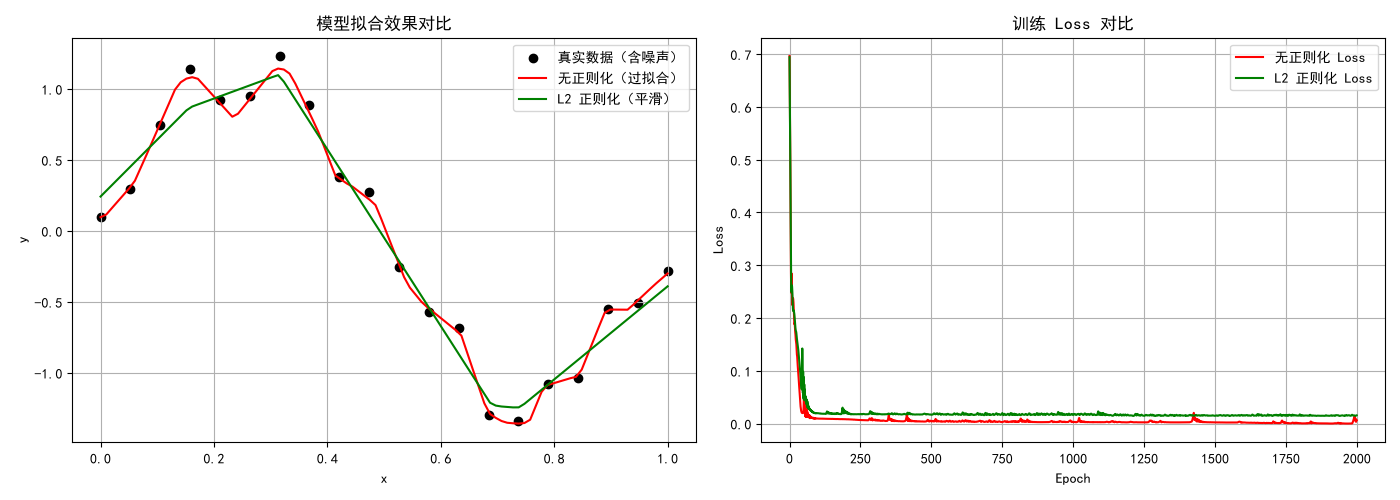
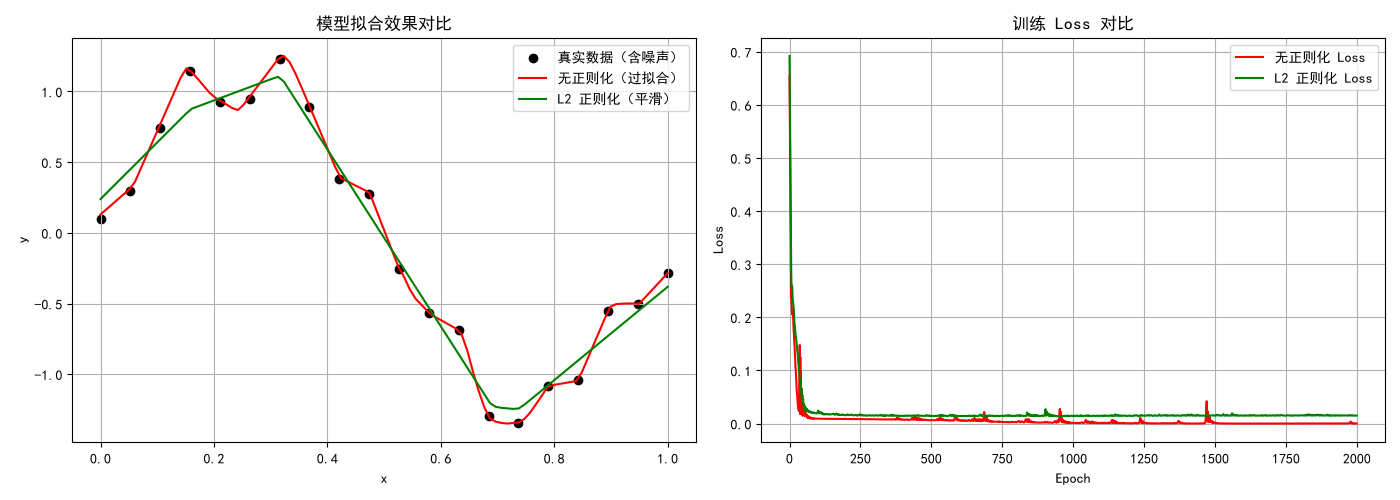
Day11: 用PyTorch重写线性回归，理解nn.Linear和自动求导

diff --git a/day11_linear_regression_torch.py b/day11_linear_regression_torch.py
@@ -1,0 +1,68 @@
+import numpy as np
+import torch
+import torch.nn as nn
+import matplotlib.pyplot as plt
+
+plt.rcParams["font.sans-serif"] = ["SimHei"]
+plt.rcParams["axes.unicode_minus"] = False
+
+np.random.seed(42)
+x = np.array([50, 60, 70, 80, 90, 100, 110, 120], dtype = np.float32)
+y = x * 1.5 + 20 + np.random.randn(len(x)) * 5
+y = y.astype(np.float32)
+
+x_tensor = torch.tensor(x).reshape(-1, 1)
+y_tensor = torch.tensor(y).reshape(-1, 1)
+
+# model = nn.Linear(1, 1)
+
+model = nn.Sequential(
+    nn.Linear(1, 16), nn.ReLU(),
+    nn.Linear(16, 1)
+)
+
+
+loss_fn = nn.MSELoss()
+learning_rate = 0.01
+optimizer = torch.optim.Adam(model.parameters(), lr = learning_rate)
+epochs = 10000
+loss_history = []
+
+for epoch in range(epochs):
+    y_pred = model(x_tensor)
+    loss = loss_fn(y_pred, y_tensor)
+    optimizer.zero_grad()
+    loss.backward()
+    optimizer.step()
+    loss_history.append(loss.item())
+    # if epoch % 100 == 0:
+        # w = model.weight.item()
+        # b = model.bias.item()
+        # print(f"Epoch {epoch:4d} | Loss: {loss.item():.2f} | w: {w:.4f} | b: {b:.4f}")
+# w_final = model.weight.item()
+# b_final = model.bias.item()
+
+# print(f"\n训练完成！最终 w = {w_final:.4f}, b = {b_final:.4f}")
+# print(f"真实关系：y = 1.5 * x + 20")
+
+plt.figure(figsize=(10, 5))
+
+plt.subplot(1, 2, 1)
+plt.scatter(x, y)
+plt.plot(x, model(x_tensor).detach().numpy(), color="red", label="拟合直线")
+plt.title("PyTorch 线性回归拟合")
+plt.xlabel("面积（平米）")
+plt.ylabel("房价（万元）")
+plt.legend()
+plt.grid(True)
+
+plt.subplot(1, 2, 2)
+plt.plot(loss_history, color="green")
+plt.title("训练 Loss 曲线")
+plt.xlabel("Epoch")
+plt.ylabel("Loss")
+plt.grid(True)
+
+plt.tight_layout()
+plt.savefig("day11_linear_regression_torch.png")
+plt.show()
